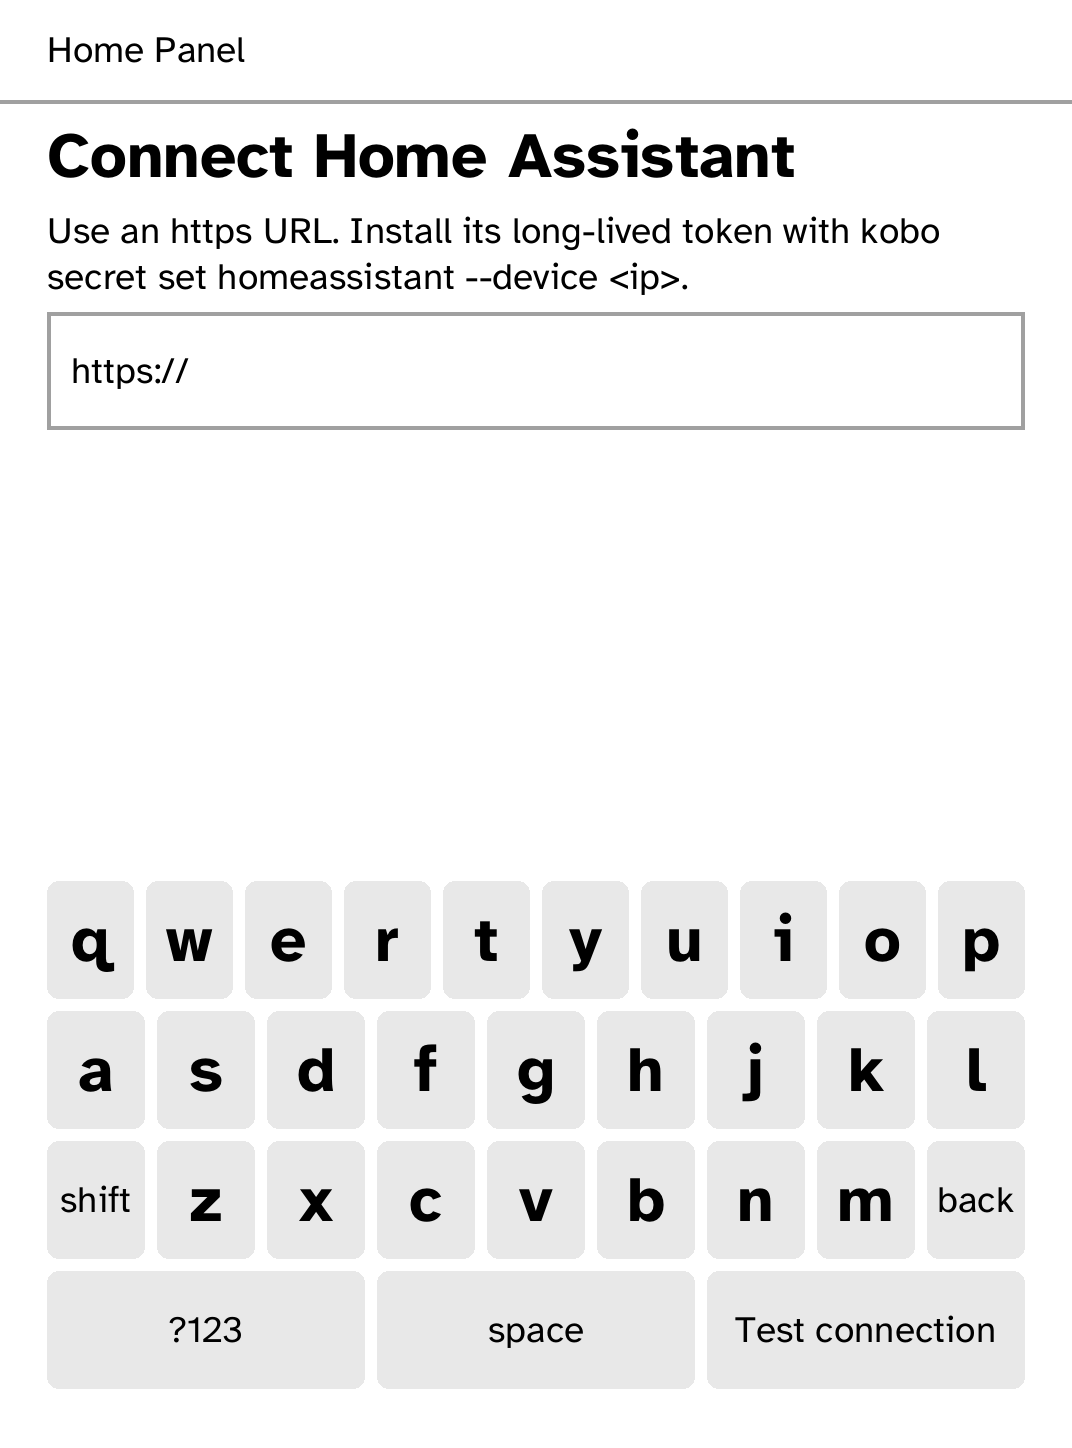
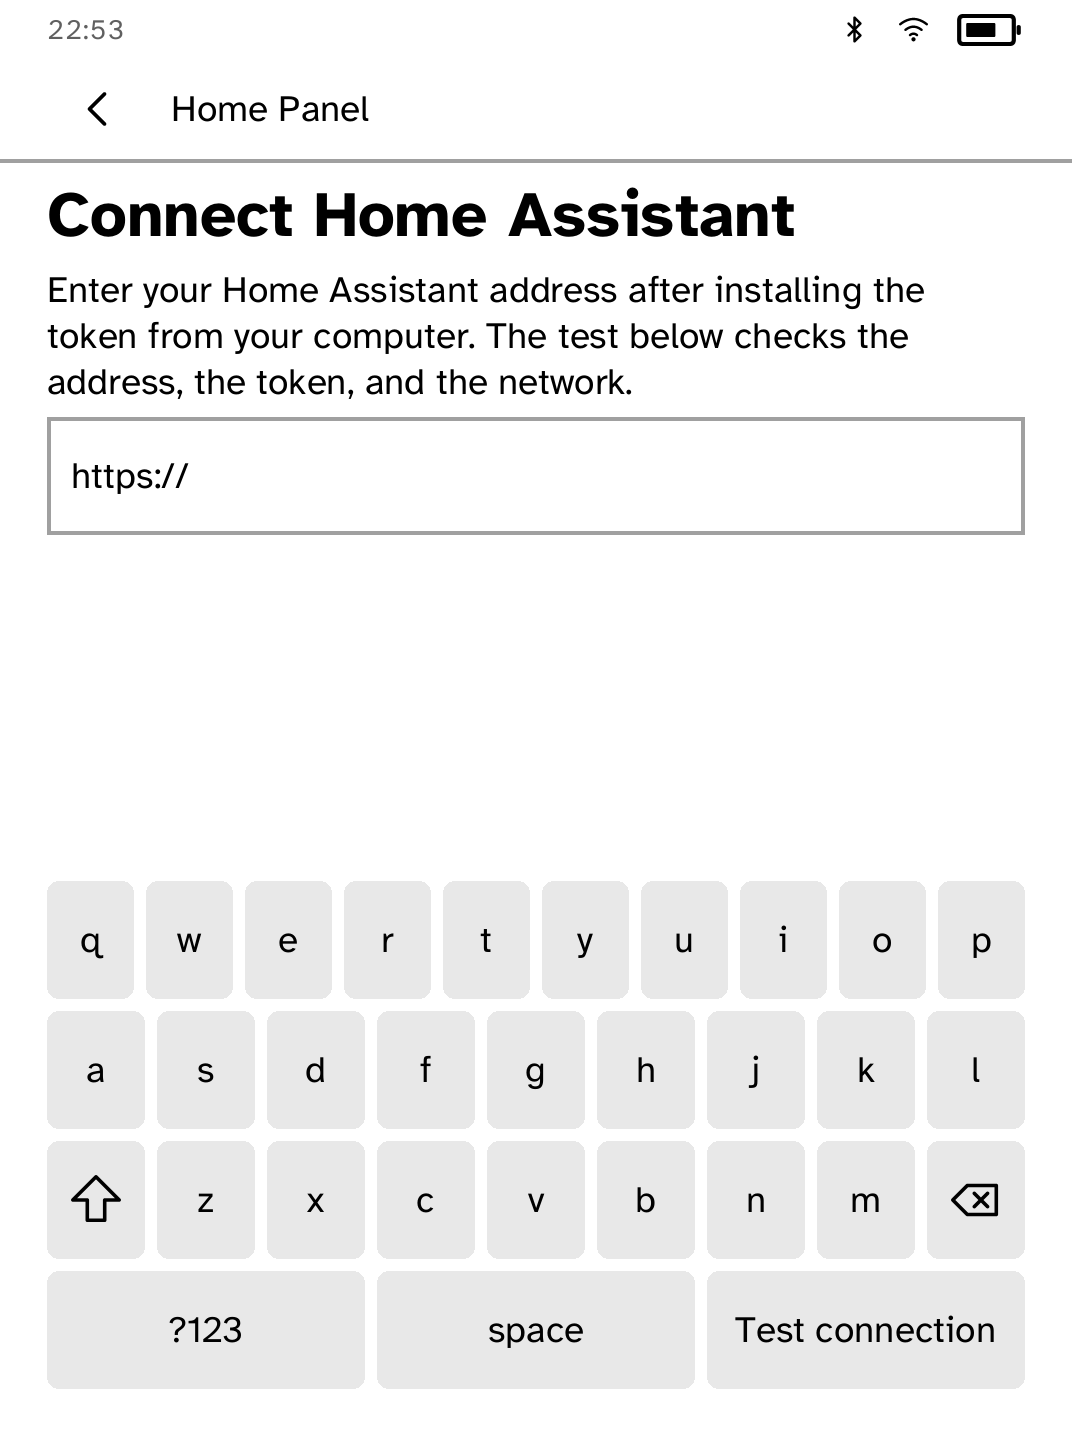
homepanel 0.2.2: README gallery and site image for the rebuilt panel
Five current simulator captures replace the single stale setup shot:
guided connection, tile grid, climate controls, tile editing, and the
wall-panel layout. The README now documents the climate screen, tile
editing, lasting acknowledgements, and wall-panel mode it previously
listed as not included. Version 0.2.2 with notes and regenerated page.

diff --git a/docs/apps/homepanel/index.html b/docs/apps/homepanel/index.html
@@ -15,13 +15,13 @@
 <meta property="og:image" content="https://bandarlabs.github.io/Cobalt/media/site/apps/homepanel.png">
 <meta property="og:image:width" content="1072">
 <meta property="og:image:height" content="1448">
-<meta property="og:image:alt" content="Home Panel connection screen with HTTPS Home Assistant URL entry and named-secret instructions.">
+<meta property="og:image:alt" content="Home Panel tile grid on a Kobo showing four Home Assistant tiles with the last refresh time.">
 <meta name="twitter:card" content="summary">
 <meta name="twitter:title" content="Install Home Panel on Kobo | Cobalt">
 <meta name="twitter:description" content="Keep your favorite Home Assistant controls on a simple, low-power panel. Install it on a supported Kobo e-reader with Cobalt.">
 <meta name="twitter:image" content="https://bandarlabs.github.io/Cobalt/media/site/apps/homepanel.png">
-<meta name="twitter:image:alt" content="Home Panel connection screen with HTTPS Home Assistant URL entry and named-secret instructions.">
-<meta http-equiv="Content-Security-Policy" content="default-src 'none'; script-src 'self' 'sha256-gUv/jDmLpCAJGvJFwNvqCT5SxXKw1aGanWDtVD3DFIc='; style-src 'self'; img-src 'self'; connect-src https://cobalt-install-relay.anandabhishek.workers.dev; base-uri 'none'; form-action 'self'">
+<meta name="twitter:image:alt" content="Home Panel tile grid on a Kobo showing four Home Assistant tiles with the last refresh time.">
+<meta http-equiv="Content-Security-Policy" content="default-src 'none'; script-src 'self' 'sha256-X4wbHMajJ3VoeirgB6MlsnESUtudveeVj2Rl7FNxeXw='; style-src 'self'; img-src 'self'; connect-src https://cobalt-install-relay.anandabhishek.workers.dev; base-uri 'none'; form-action 'self'">
 <script type="application/ld+json">{
   "@context": "https://schema.org",
   "@graph": [
@@ -35,12 +35,12 @@
         "url": "https://bandarlabs.github.io/Cobalt/media/site/apps/homepanel.png",
         "width": 1072,
         "height": 1448,
-        "caption": "Home Panel connection screen with HTTPS Home Assistant URL entry and named-secret instructions."
+        "caption": "Home Panel tile grid on a Kobo showing four Home Assistant tiles with the last refresh time."
       },
       "applicationSuite": "Cobalt",
       "applicationCategory": "SoftwareApplication",
       "operatingSystem": "Cobalt on supported Kobo e-readers",
-      "softwareVersion": "0.2.1",
+      "softwareVersion": "0.2.2",
       "isAccessibleForFree": true,
       "offers": {
         "@type": "Offer",
@@ -97,10 +97,10 @@
       <p class="eyebrow">Kobo app</p>
       <h1>Home Panel</h1>
       <p class="summary">Keep your favorite Home Assistant controls on a simple, low-power panel.</p>
-      <div class="meta"><span>Version 0.2.1</span><span>network</span></div>
+      <div class="meta"><span>Version 0.2.2</span><span>network</span></div>
     </div>
     <figure class="app-shot">
-      <img src="../../media/site/apps/homepanel.png" width="1072" height="1448" alt="Home Panel connection screen with HTTPS Home Assistant URL entry and named-secret instructions.">
+      <img src="../../media/site/apps/homepanel.png" width="1072" height="1448" alt="Home Panel tile grid on a Kobo showing four Home Assistant tiles with the last refresh time.">
     </figure>
   </div>
   <section class="panel prerequisites" aria-labelledby="prerequisites-title">

diff --git a/apps/homepanel/README.md b/apps/homepanel/README.md
@@ -15,14 +15,41 @@ certificate, or install a private CA with `kobo trust set homeassistant
 --device <ip>`. Home Panel posts one compact Jinja template per poll and
 never puts the token in its URL, body, log, or local store.
 
+![Connecting Home Assistant](screenshots/setup.png)
+
+## Tiles
+
 Use the `+` action to browse or search Home Assistant devices by their
-friendly names. The grid keeps up to twelve tiles, refreshes them every ten
-seconds while open, and keeps the last visible state available when the
-server cannot be reached. Lights, switches, scenes, scripts, automations, and
-buttons can be triggered directly; unsupported domains remain useful as
-read-only tiles.
+friendly names, or type an entity id exactly. The grid keeps up to twelve
+tiles, refreshes them every ten seconds while open, and keeps the last
+visible state available when the server cannot be reached. Lights, switches,
+scenes, scripts, automations, and buttons can be triggered directly;
+unsupported domains remain useful as read-only tiles.
 
-Climate detail controls and a dedicated always-awake wall-panel mode are not
-included yet.
+Every action answers with a named acknowledgement that stays on screen until
+the next action, and a failure names the cause and the fix. The header stamps
+the last successful refresh; when the server stops answering, the panel keeps
+showing the last readings and says since when.
 
-![Home Panel grid](screenshots/setup.png)
+![Tile grid](screenshots/grid.png)
+
+## Climate
+
+Tapping a climate tile opens the room and target temperatures, adjusts the
+target in half-degree steps, and switches the unit off and on.
+
+![Climate controls](screenshots/climate.png)
+
+## Editing tiles
+
+Settings holds tile editing: remove a tile or move it up the grid, paged six
+at a time. The layout survives restarts.
+
+![Editing tiles](screenshots/edit.png)
+
+## Wall panel
+
+Settings also switches the grid to a one-column layout sized for a panel
+mounted on a wall.
+
+![Wall-panel layout](screenshots/wall.png)
